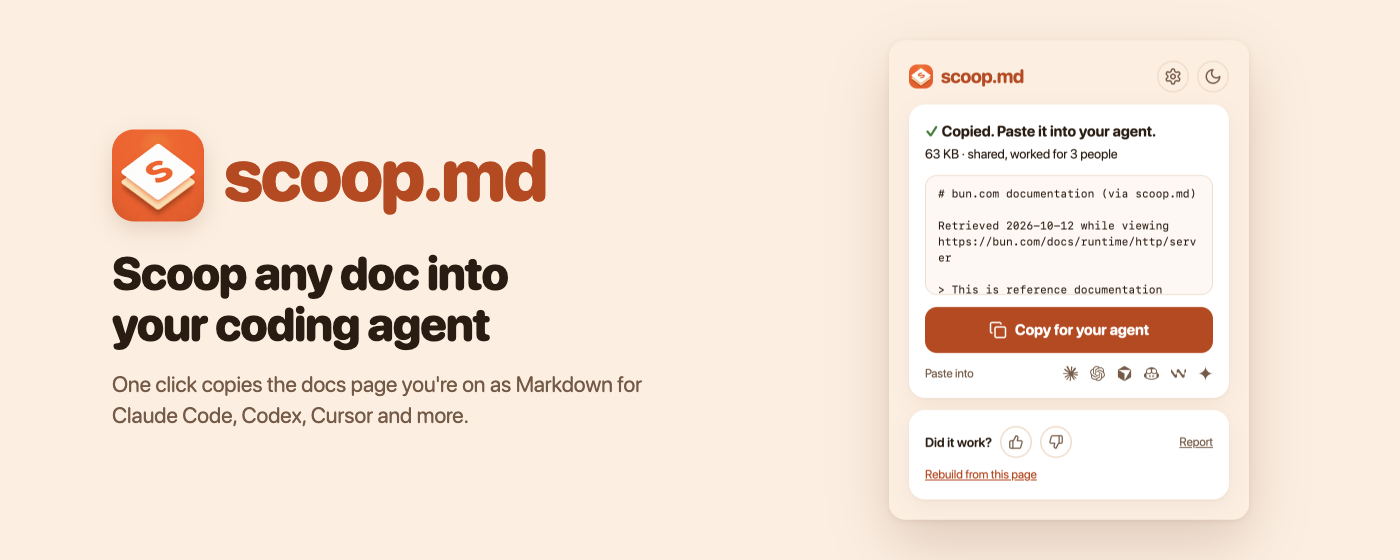
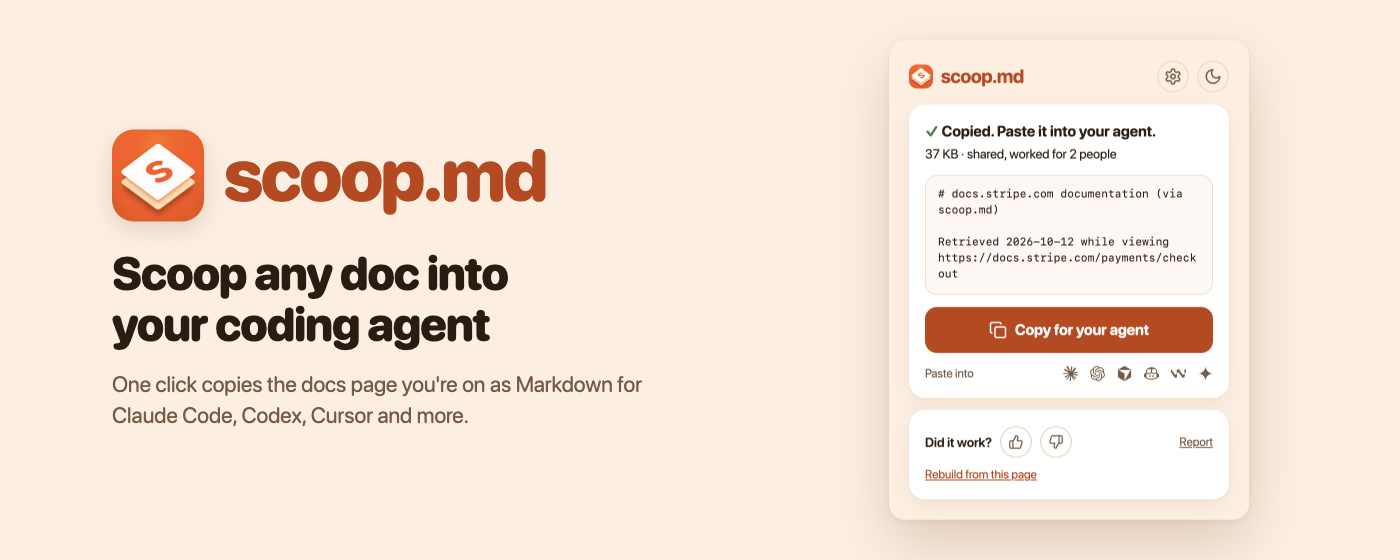
Store artwork: the library-hit shot is a real production hit on Stripe
Replaces 2-bun-library-hit.png, whose "worked for 3 people" came from test
installs on a local library. 2-stripe-library-hit.png is
docs.stripe.com/payments/checkout served by api.scoop.md (worked for 2,
taken without voting or sharing). The marquee uses the same popup.

Changed region(s): [[0.6757, 0.3339, 0.86, 0.5464], [0.6757, 0.2732, 0.7986, 0.3036]]

diff --git a/extension/STORE.md b/extension/STORE.md
@@ -79,10 +79,9 @@ In `store-assets/` (copies in `dist/store/`), taken in Chrome with the real exte
 | File | Size | Shows |
 |---|---|---|
 | `1-stripe-webhooks-copied.png` | 1280×800 | docs.stripe.com/webhooks: "Copied. Paste it into your agent.", 2 sources (the page's `.md` and `llms.txt`), "Shared with the library" |
-| `2-bun-library-hit.png` | 1280×800 | bun.com/docs/runtime/http/server served from the library: "shared, worked for 3 people", vote buttons, "Rebuild from this page" |
+| `2-stripe-library-hit.png` | 1280×800 | docs.stripe.com/payments/checkout served from the live library (api.scoop.md): "shared, worked for 2 people", vote buttons, "Rebuild from this page" |
 | `3-python-html-converted.png` | 1280×800 | docs.python.org/3/library/json.html (no Markdown published) converted from HTML, the preview scrolled to a converted code block |
 | `4-settings.png` | 1280×800 | Settings: sharing toggle, theme, keyboard shortcut |
 | `promo-small-440x280.png` | 440×280 | Small promo tile: icon, "scoop.md", "Scoop any doc into your coding agent" on #ffeee0 |
-| `promo-marquee-1400x560.png` | 1400×560 | Marquee: the same, with the popup |
+| `promo-marquee-1400x560.png` | 1400×560 | Marquee: the same, with the popup from screenshot 2 |
 
-Screenshots 1 to 3 were taken against the local reference library (`npm run server`), so "Shared with the library" and the vote count come from test installs, not real users.
